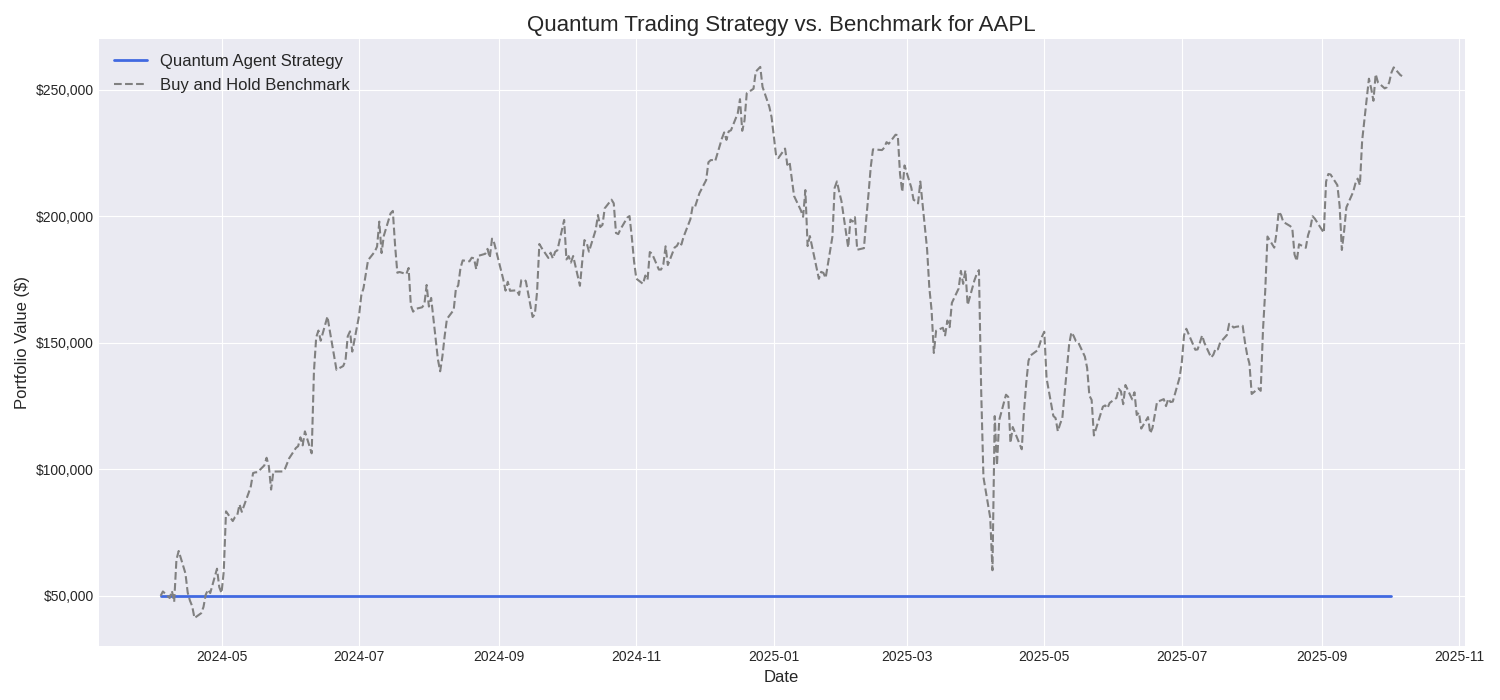
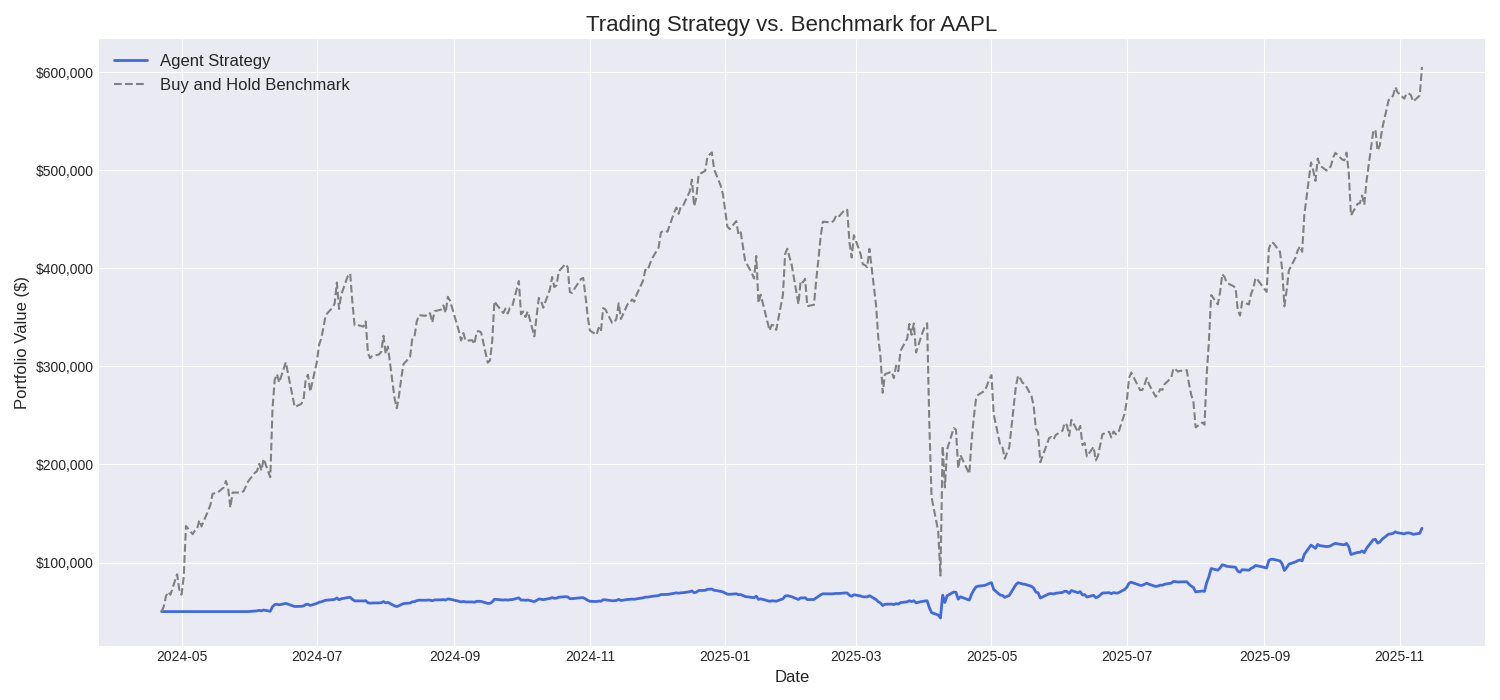
fix: update to have model trade and updated index error

diff --git a/src/run_backtest.py b/src/run_backtest.py
@@ -70,7 +70,8 @@ def run_backtest():
         state, _, done = env.step(action)
     
     portfolio_history = pd.DataFrame(env.history)
-    portfolio_history.index = test_data.index[:len(portfolio_history)]
+    portfolio_history = portfolio_history.iloc[1:]
+    portfolio_history.index = test_data.index
 
     benchmark_start_price = test_data['Close'].iloc[0]
     benchmark_shares = INITIAL_CAPITAL / benchmark_start_price
@@ -99,4 +100,3 @@ def run_backtest():
 
 if __name__ == '__main__':
     run_backtest()
-

diff --git a/src/models.py b/src/models.py
@@ -34,4 +34,3 @@ class ActorCritic(nn.Module):
         action_logits = self.actor_head(shared_features)
         value = self.critic_head(shared_features)
         return action_logits, value
-

diff --git a/src/backtest_engine.py b/src/backtest_engine.py
@@ -66,4 +66,3 @@ class TradingEnvironment:
         next_state = self._get_state() if not done else None
         
         return next_state, reward, done
-

diff --git a/src/train_agent.py b/src/train_agent.py
@@ -112,4 +112,3 @@ def train_agent():
 
 if __name__ == '__main__':
     train_agent()
-

diff --git a/src/data_collector.py b/src/data_collector.py
@@ -91,4 +91,3 @@ def main():
 
 if __name__ == '__main__':
     main()
-
